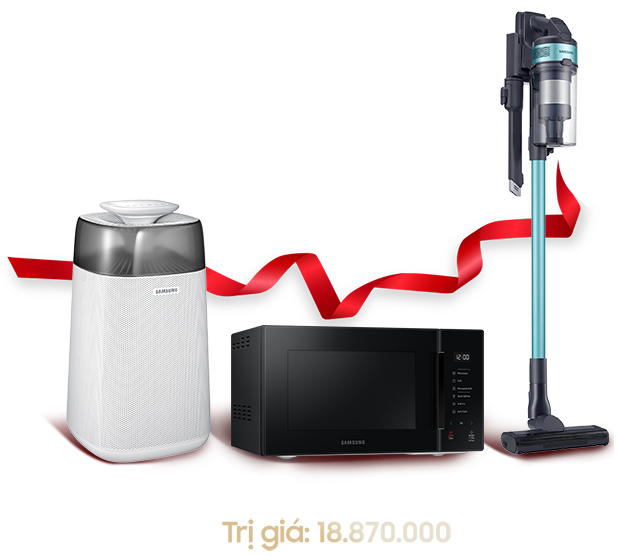
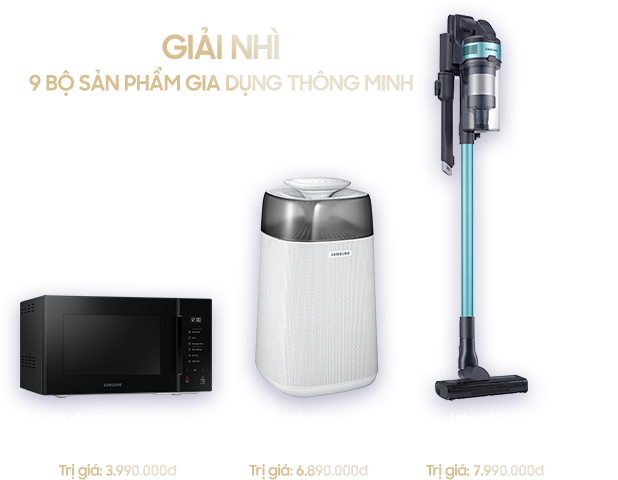
Update new design samsung quay so
Update new design and logic samsung quay so 2021

diff --git a/samsung/js/jquery.flipcounter.js b/samsung/js/jquery.flipcounter.js
@@ -135,6 +135,40 @@
             this.digits[i].flipTo(numStr[numStr.length - 1 - i]);
         }
     };
+	
+		FlipCounter.prototype.updateStop = function (num) {
+        var numStr = num.toString();//parseInt(num).toString(); //bamt mod
+		numStr = numStr.toUpperCase();
+        // Change the number of digits displayed if needed
+        if (numStr.length != this.digits.length)
+        {
+            //console.log("num digit change");
+			//return;
+            var diff = numStr.length - this.digits.length;
+            if (diff > 0)
+            {
+                for (i=0; i<diff; i=i+1) {
+                    this.addDigit(0);
+                }
+            }
+            else
+            {
+                for (i=diff; i<0; i=i+1) {
+                    this.removeDigit();
+                }
+            }
+            
+            this.options['onResize']();
+        }
+        
+        // Change all digit values
+        for (i=0; i<numStr.length; i=i+1)
+        {
+            //this.digits[i].flipTo(numStr[numStr.length - 1 - i]);
+			this.digits[i].set(numStr[numStr.length - 1 - i]);
+			
+        }
+    };
 
     function Digit( element, currentChar ) {
         //bamt: currentChar = parseInt(currentChar);
@@ -250,6 +284,17 @@
             }
         });
     }
+	
+	$.fn[pluginName+'UpdateStop'] = function ( num ) {
+        return this.each(function () {
+            var obj = $.data(this, 'plugin_' + pluginName);
+            if (obj) {
+                obj.updateStop(num);
+				console.log("update Stop");
+            }
+        });
+    }
+	
     $.fn[pluginName+'Set'] = function ( num ) {
         return this.each(function () {
             var obj = $.data(this, 'plugin_' + pluginName);

diff --git a/samsung/css/mld.css b/samsung/css/mld.css
@@ -24,7 +24,7 @@ th {
 
 .ctnCounter {
     position: absolute;
-    top: 510px;
+    top: 80px;
 	margin-left: 270px;
     height: 97px;
     width: 813px;
@@ -144,28 +144,28 @@ th {
 	margin-top: -25px;
 }
 .btn_next {
-    width: 680px;
-    height: 468px;
+    width: 1117px;
+    height: 486px;
     background: url("../images/next_btn.png") no-repeat;
     border: none;
-	margin-left: -5px;
-	margin-top: 20px;
+	margin-left: 153px;
+	margin-top: 21px;
 }
 .btn_dacbiet {
     width: 618px;
-    height: 396px;
+    height: 460px;
     background: url("../images/tv_btn.png") no-repeat;
     border: none;
-	margin-left: 4px;
+	margin-left: 28px;
 	margin-top: 0px;
 }
 .btn_giainhat {
     width: 618px;
-    height: 560px;
+    height: 480px;
     background: url("../images/vinmec_btn.png") no-repeat;
     border: none;
-	margin-left: 55px;
-	margin-top: 55px;
+	margin-left: 15px;
+	margin-top: 124px;
 }
 .btn_khuyenkhich {
     width: 300px;

diff --git a/samsung/js/mld.js b/samsung/js/mld.js
@@ -280,11 +280,11 @@ function mldCtrl($scope, $http) {
 
     $scope.updateLoop = function (val, addBo) {
         if (val != null && $scope.fliptimeout <= 1) {
-            $("#flipcounter").flipCounterUpdate(val.IMEI);
+            $("#flipcounter").flipCounterUpdateStop(val.IMEI);
 			
         }
         else {
-            $("#flipcounter").flipCounterUpdate(effectpickup());
+            $("#flipcounter").flipCounterUpdateStop(effectpickup());
         }
 
 
